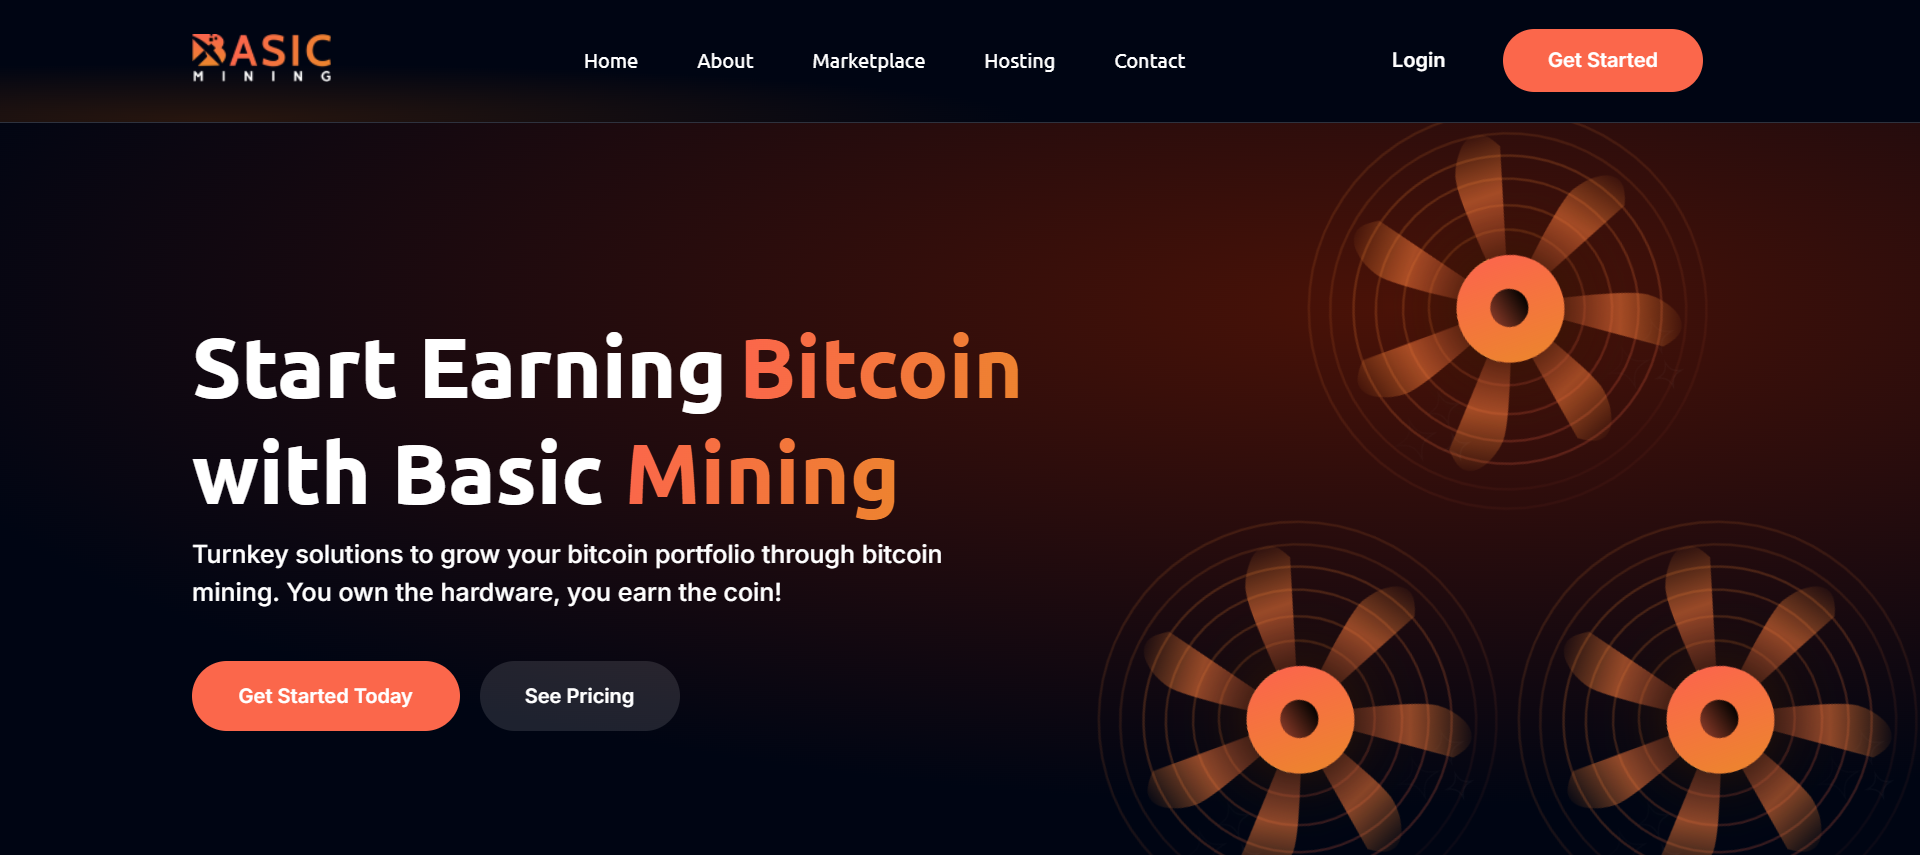
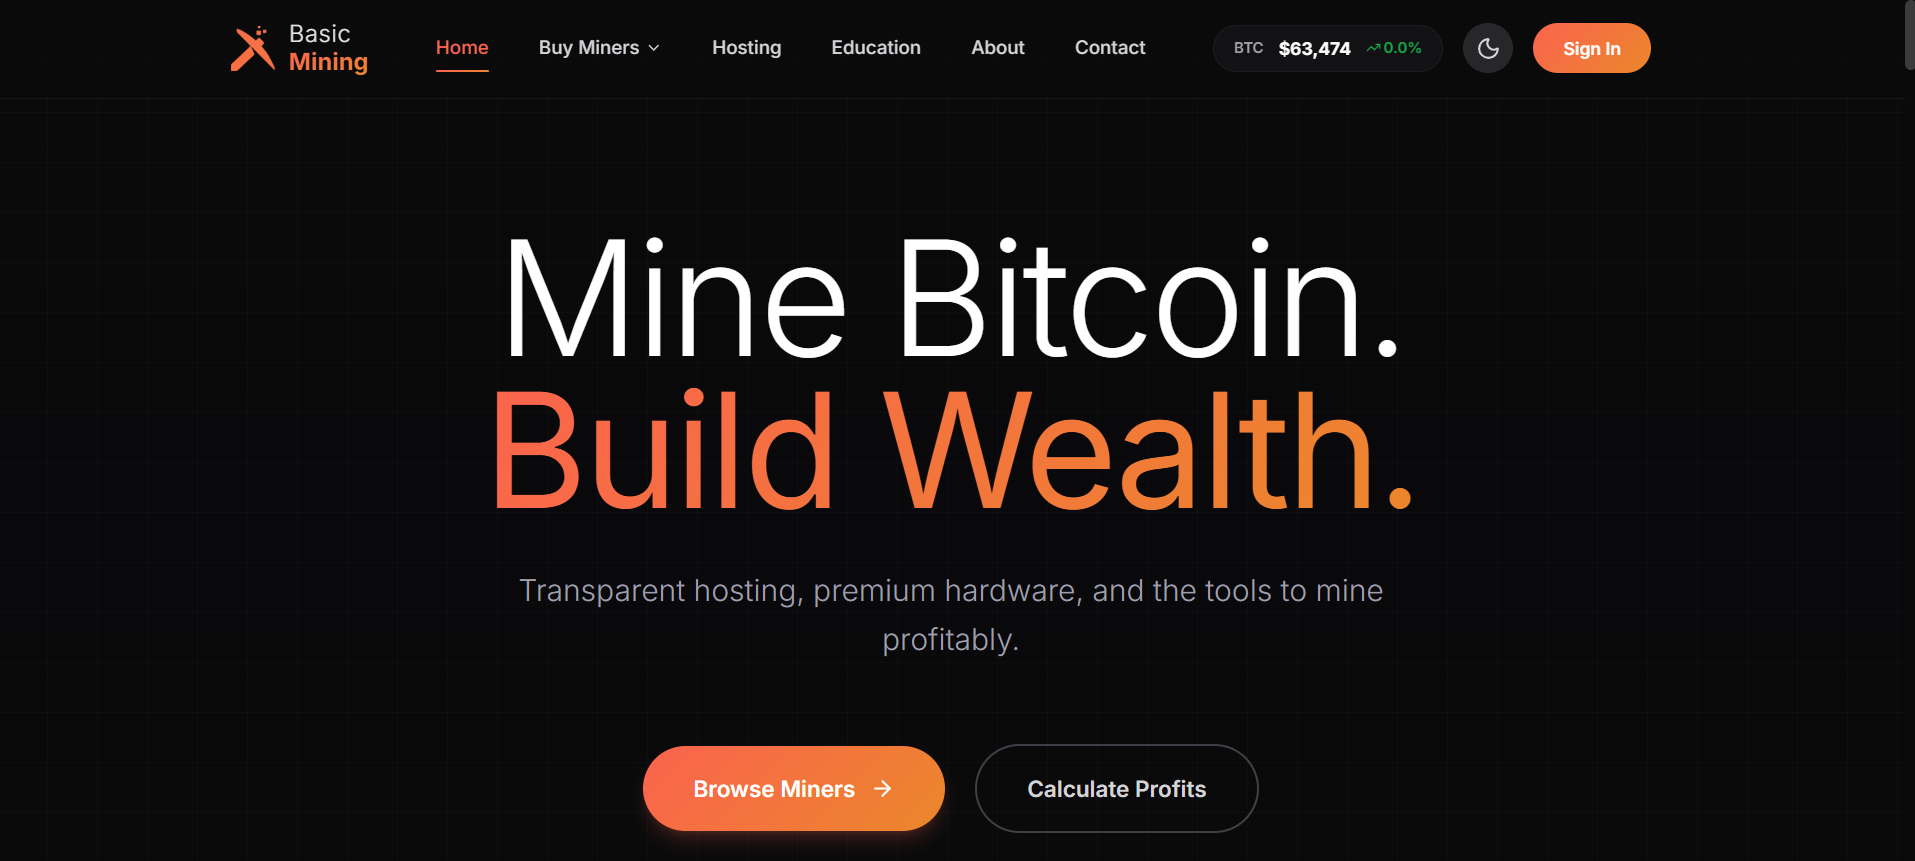
fix: sticky scroll issue and project heading

diff --git a/src/style/Home/index.ts b/src/style/Home/index.ts
@@ -96,7 +96,7 @@ export const MainContainer = styled.section`
   place-items: center;
   position: relative;
   isolation: isolate;
-  overflow: hidden;
+  overflow: clip;
   padding: 118px 24px 104px;
   background:
     radial-gradient(ellipse at 48% 40%, var(--theme-primary-soft, rgba(255, 255, 255, 0.035)), transparent 35%),
@@ -124,7 +124,7 @@ export const HeroWaves = styled.div`
   z-index: -2;
   width: 100vw;
   height: 100%;
-  overflow: hidden;
+  overflow: clip;
   background: var(--theme-background, #07111a);
 
   svg {

diff --git a/src/Components/Introduction/Introduction.module.css b/src/Components/Introduction/Introduction.module.css
@@ -1,7 +1,7 @@
 .section {
   position: relative;
   z-index: 9;
-  overflow: hidden;
+  overflow: visible;
   min-height: 100vh;
   color: var(--theme-text);
   background:
@@ -124,7 +124,7 @@
 
 .animatedMessage {
   position: sticky;
-  top: 0;
+  /* top: 0; */
   height: 100vh;
   padding-bottom: 1em;
 }

diff --git a/src/Components/Home/index.tsx b/src/Components/Home/index.tsx
@@ -25,10 +25,11 @@ import {
 import { useHeroTypingEffect } from "./useHeroTypingEffect";
 
 const SUBTITLES = [
+  "software engineer",
   "frontend developer",
   "react developer",
   "web developer",
-  "ui engineer",
+  "ui enthusiast",
 ];
 
 const clamp = (value: number, min = 0, max = 1) =>

diff --git a/src/Components/Project/index.tsx b/src/Components/Project/index.tsx
@@ -22,7 +22,6 @@ const Projects = () => {
       <div aria-hidden className={styles.anchor} id="projects" />
 
       <h2 className={styles.title} ref={ref}>
-        <VisuallyHidden>{title}</VisuallyHidden>
 
         <span aria-hidden>
           {title.split(" ").map((word) => {

diff --git a/src/Components/Testimonials/Testimonials.module.css b/src/Components/Testimonials/Testimonials.module.css
@@ -3,7 +3,7 @@
   z-index: 8;
   width: 100%;
   filter: contrast(calc(1 + 0.5 * var(--theme-is-contrast, 0)));
-  background: var(--theme-testimonial-background);
+  /* background: var(--theme-testimonial-background); */
 }
 
 .anchor {

diff --git a/src/App.css b/src/App.css
@@ -9,7 +9,7 @@ body,
 #root {
   width: 100%;
   max-width: 100%;
-  overflow-x: hidden;
+  overflow-x: clip;
 }
 
 /* .slick-active{

diff --git a/src/index.css b/src/index.css
@@ -41,7 +41,7 @@ body,
 #root {
   width: 100%;
   max-width: 100%;
-  overflow-x: hidden;
+  overflow-x: clip;
 }
 
 body {
